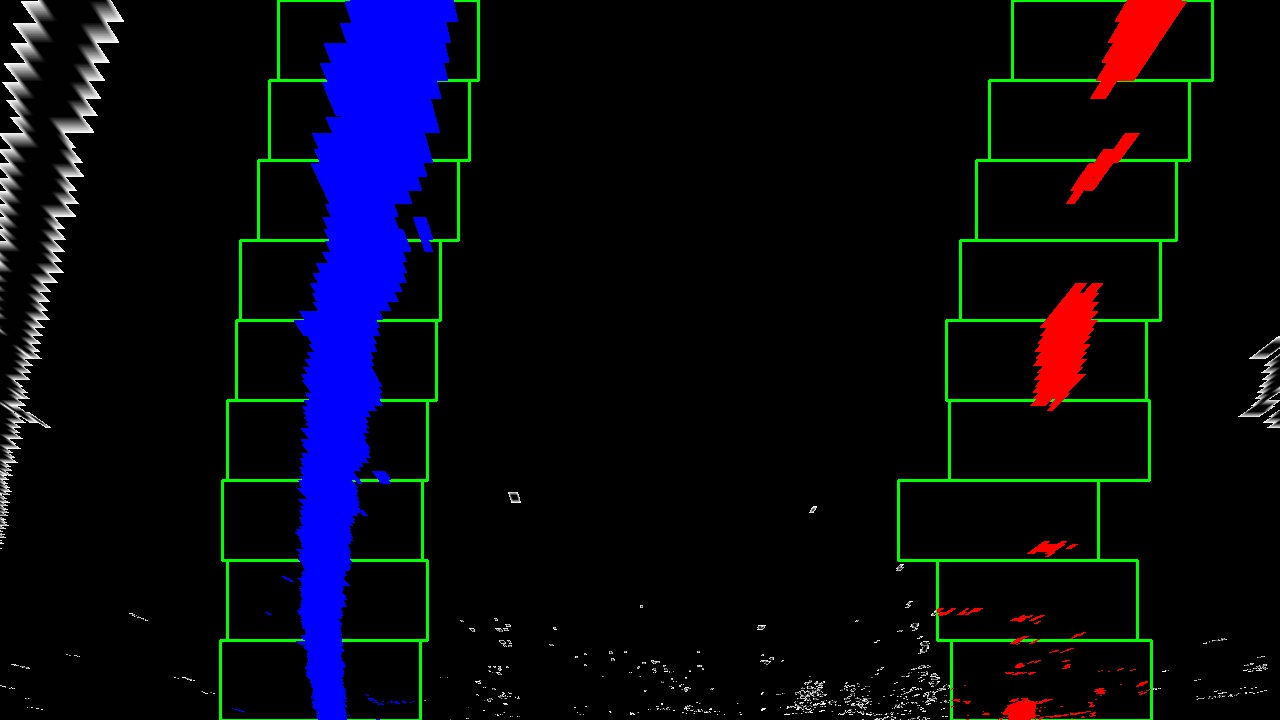
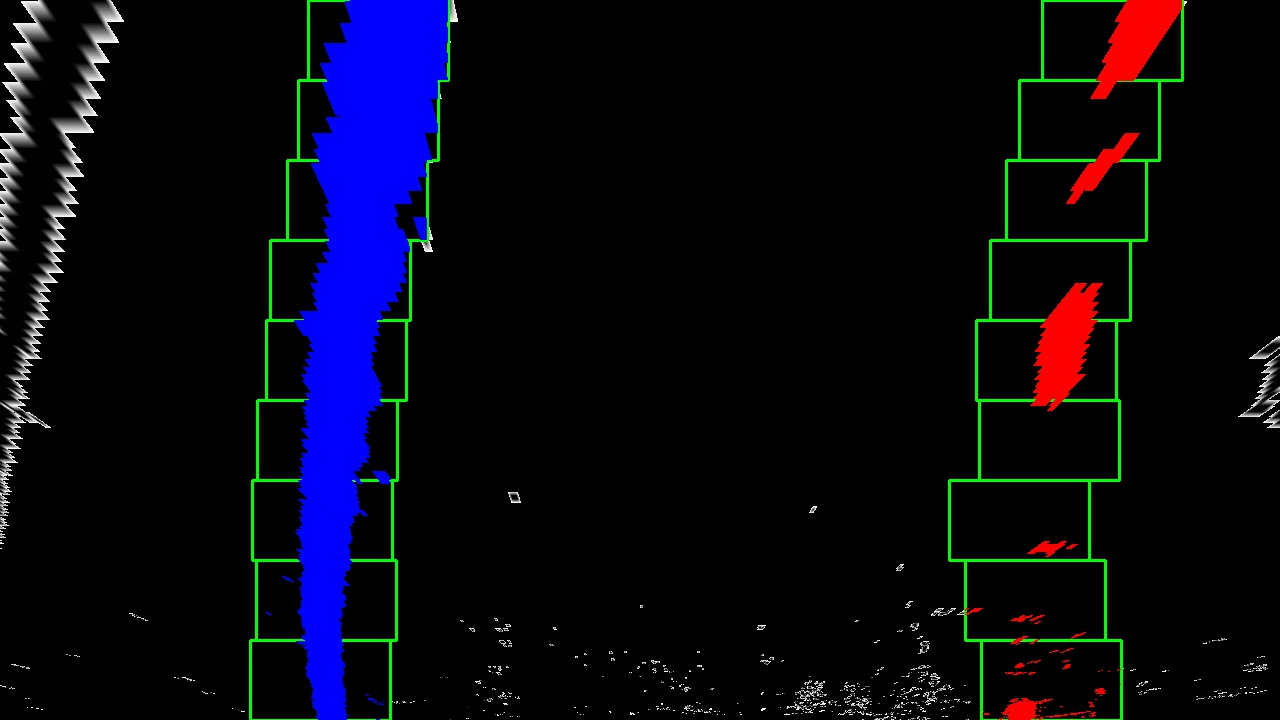
added line fit visual generation

diff --git a/CarND-Advanced-Lane-Lines-master/pipeline/linefitter.py b/CarND-Advanced-Lane-Lines-master/pipeline/linefitter.py
@@ -1,0 +1,167 @@
+
+
+import numpy as np
+import cv2
+
+class LineFitter():
+
+    def __init__(self, nwindows=9, margin=100, minpix=50):
+
+        # flag to speed up subsequent detection by region of interest
+        self.firstDetection = True
+
+        # number of windows for sliding
+        self.nwindows = nwindows
+
+        # margin is the width of the windows
+        self.margin = margin
+
+        # minimum pixels in window
+        self.minpix = minpix
+
+        #  second order polynomial fit
+        self.left_fit = None
+        self.right_fit = None
+
+        # non zero pixels in image
+        self.nonzerox = None
+        self.nonzeroy = None
+
+        self.ploty = None
+
+    def extract_polyfit(self, left_lane_inds, right_lane_inds, binWarped):
+
+        # Extract left and right line pixel positions
+        leftx = self.nonzerox[left_lane_inds]
+        lefty = self.nonzeroy[left_lane_inds]
+        rightx = self.nonzerox[right_lane_inds]
+        righty = self.nonzeroy[right_lane_inds]
+
+        # Fit a second order polynomial to each
+        self.left_fit = np.polyfit(lefty, leftx, 2)
+        self.right_fit = np.polyfit(righty, rightx, 2)
+
+        # Generate x and y values for plotting
+        ploty = np.linspace(0, binWarped.shape[0] - 1, binWarped.shape[0])
+        left_fitx = self.left_fit[0] * ploty ** 2 + self.left_fit[1] * ploty + self.left_fit[2]
+        right_fitx = self.right_fit[0] * ploty ** 2 + self.right_fit[1] * ploty + self.right_fit[2]
+        self.ploty = ploty # store in object
+
+        return left_fitx, right_fitx
+
+    def lane_extraction(self, binWarped, fname, visual=False):
+
+        # check if this is a first extraction or subsequent
+        # if subsequent go to quicker function
+        if self.firstDetection == False:
+            return self.next_lane_extraction(binWarped, fname, visual)
+
+        ### Finding Lines ###
+        # histogram of bottom half
+        # counts the number of 1's along each column
+        histogram = np.sum(binWarped[binWarped.shape[0]/2:,:],axis=0)
+
+        # img for visualization
+        out_img = np.dstack((binWarped, binWarped, binWarped))*255
+
+        # find peak of left and right of histogram
+        # peaks correspond to the starting point of left and right Lines
+        midpoint = np.int(histogram.shape[0]/2)
+        leftx_base = np.argmax(histogram[:midpoint])
+        rightx_base = np.argmax(histogram[midpoint:]) + midpoint
+
+        # Set height of windows
+        window_height = np.int(binWarped.shape[0]/self.nwindows)
+        # Identify the x and y positions of all nonzero pixels in the image
+        nonzero = binWarped.nonzero()
+        self.nonzeroy = np.array(nonzero[0])
+        self.nonzerox = np.array(nonzero[1])
+        # Current positions to be updated for each window
+        leftx_current = leftx_base
+        rightx_current = rightx_base
+        # Create empty lists to receive left and right lane pixel indices
+        left_lane_inds = []
+        right_lane_inds = []
+
+        # Step through the windows one by one
+        for window in range(self.nwindows):
+            # Identify window boundaries in x and y (and right and left)
+            win_y_low = binWarped.shape[0] - (window+1)*window_height
+            win_y_high = binWarped.shape[0] - window*window_height
+            win_xleft_low = leftx_current - self.margin
+            win_xleft_high = leftx_current + self.margin
+            win_xright_low = rightx_current - self.margin
+            win_xright_high = rightx_current + self.margin
+            # Draw the windows on the visualization image
+            cv2.rectangle(out_img,(win_xleft_low,win_y_low),(win_xleft_high,win_y_high),(0,255,0), 2)
+            cv2.rectangle(out_img,(win_xright_low,win_y_low),(win_xright_high,win_y_high),(0,255,0), 2)
+            # Identify the nonzero pixels in x and y within the window
+            good_left_inds = ((self.nonzeroy >= win_y_low) & (self.nonzeroy < win_y_high) & (self.nonzerox >= win_xleft_low) & (self.nonzerox < win_xleft_high)).nonzero()[0]
+            good_right_inds = ((self.nonzeroy >= win_y_low) & (self.nonzeroy < win_y_high) & (self.nonzerox >= win_xright_low) & (self.nonzerox < win_xright_high)).nonzero()[0]
+            # Append these indices to the lists
+            left_lane_inds.append(good_left_inds)
+            right_lane_inds.append(good_right_inds)
+            # If you found > minpix pixels, recenter next window on their mean position
+            if len(good_left_inds) > self.minpix:
+                leftx_current = np.int(np.mean(self.nonzerox[good_left_inds]))
+            if len(good_right_inds) > self.minpix:
+                rightx_current = np.int(np.mean(self.nonzerox[good_right_inds]))
+
+        # Concatenate the arrays of indices
+        left_lane_inds = np.concatenate(left_lane_inds)
+        right_lane_inds = np.concatenate(right_lane_inds)
+
+        self.firstDetection = False
+
+        left_fitx, right_fitx = self.extract_polyfit(left_lane_inds, right_lane_inds, binWarped)
+
+        if visual == True:
+            # output image for visualization
+            out_img[self.nonzeroy[left_lane_inds], self.nonzerox[left_lane_inds]] = [255, 0, 0]
+            out_img[self.nonzeroy[right_lane_inds], self.nonzerox[right_lane_inds]] = [0, 0, 255]
+            write_name = "../test_images/firstLEsample"+fname[-5:]
+            cv2.imwrite(write_name, out_img)
+
+        return left_fitx, right_fitx
+
+    def next_lane_extraction(self, binWarped, fname, visual=False):
+        # Assume you now have a new warped binary image
+        # from the next frame of video (also called "binWarped")
+        # It's now much easier to find line pixels!
+        nonzero = binWarped.nonzero()
+        self.nonzeroy = np.array(nonzero[0])
+        self.nonzerox = np.array(nonzero[1])
+
+        left_fit = self.left_fit
+        right_fit = self.right_fit
+
+        left_lane_inds = ((self.nonzerox > (left_fit[0]*(self.nonzeroy**2) + left_fit[1]*self.nonzeroy + left_fit[2] - self.margin)) & (self.nonzerox < (left_fit[0]*(self.nonzeroy**2) + left_fit[1]*self.nonzeroy + left_fit[2] + self.margin)))
+        right_lane_inds = ((self.nonzerox > (right_fit[0]*(self.nonzeroy**2) + right_fit[1]*self.nonzeroy + right_fit[2] - self.margin)) & (self.nonzerox < (right_fit[0]*(self.nonzeroy**2) + right_fit[1]*self.nonzeroy + right_fit[2] + self.margin)))
+
+        left_fitx, right_fitx = self.extract_polyfit(left_lane_inds, right_lane_inds, binWarped)
+
+        if visual == True:
+            # Create an image to draw on and an image to show the selection window
+            out_img = np.dstack((binWarped, binWarped, binWarped))*255
+            window_img = np.zeros_like(out_img)
+            # Color in left and right line pixels
+            out_img[self.nonzeroy[left_lane_inds], self.nonzerox[left_lane_inds]] = [255, 0, 0]
+            out_img[self.nonzeroy[right_lane_inds], self.nonzerox[right_lane_inds]] = [0, 0, 255]
+
+            # Generate a polygon to illustrate the search window area
+            # And recast the x and y points into usable format for cv2.fillPoly()
+            left_line_window1 = np.array([np.transpose(np.vstack([left_fitx-self.margin, self.ploty]))])
+            left_line_window2 = np.array([np.flipud(np.transpose(np.vstack([left_fitx+self.margin, self.ploty])))])
+            left_line_pts = np.hstack((left_line_window1, left_line_window2))
+            right_line_window1 = np.array([np.transpose(np.vstack([right_fitx-self.margin, self.ploty]))])
+            right_line_window2 = np.array([np.flipud(np.transpose(np.vstack([right_fitx+self.margin, self.ploty])))])
+            right_line_pts = np.hstack((right_line_window1, right_line_window2))
+
+            # Draw the lane onto the warped blank image
+            cv2.fillPoly(window_img, np.int_([left_line_pts]), (0,255, 0))
+            cv2.fillPoly(window_img, np.int_([right_line_pts]), (0,255, 0))
+            result = cv2.addWeighted(out_img, 1, window_img, 0.3, 0)
+            write_name = "../test_images/nextLEsample"+fname[-5:]
+            cv2.imwrite(write_name, result)
+
+        return left_fitx, right_fitx

diff --git a/CarND-Advanced-Lane-Lines-master/pipeline/imagegen.py b/CarND-Advanced-Lane-Lines-master/pipeline/imagegen.py
@@ -82,9 +82,14 @@ def window_mask(width, height, img_ref, center, level):
         max(0,int(center-width)):min(int(center+width),img_ref.shape[1])] = 1
     return output
 
-images = glob.glob("../test_images/test*.jpg")
+#images = glob.glob("../test_images/test*.jpg")
 #images = glob.glob("../test_images/straight*.jpg") # for perspective src calibration
 #images = glob.glob("../camera_cal/calibration1.jpg") # for undistort sample
+# below is a double frame to test first frame line extraction + subsequent frame extraction
+images = ["../test_images/test2.jpg","../test_images/test2.jpg"]
+
+# instantiate the linefitter to be used later for sliding window and plotting
+fitter = LineFitter(margin = 70, minpix = 34)
 
 for idx, fname in enumerate(images):
     # read in image
@@ -117,8 +122,7 @@ for idx, fname in enumerate(images):
     Minv = cv2.getPerspectiveTransform(dst, src)
     binWarped = cv2.warpPerspective(preproImage, M, img_size, flags=cv2.INTER_LINEAR)
 
-    fitter = LineFitter()
-    left_fitx, right_fitx = fitter.first_lane_extraction(binWarped, fname, visual=True)
+    left_fitx, right_fitx = fitter.lane_extraction(binWarped, fname, visual=True)
 
     # EXPORT -------------
 
